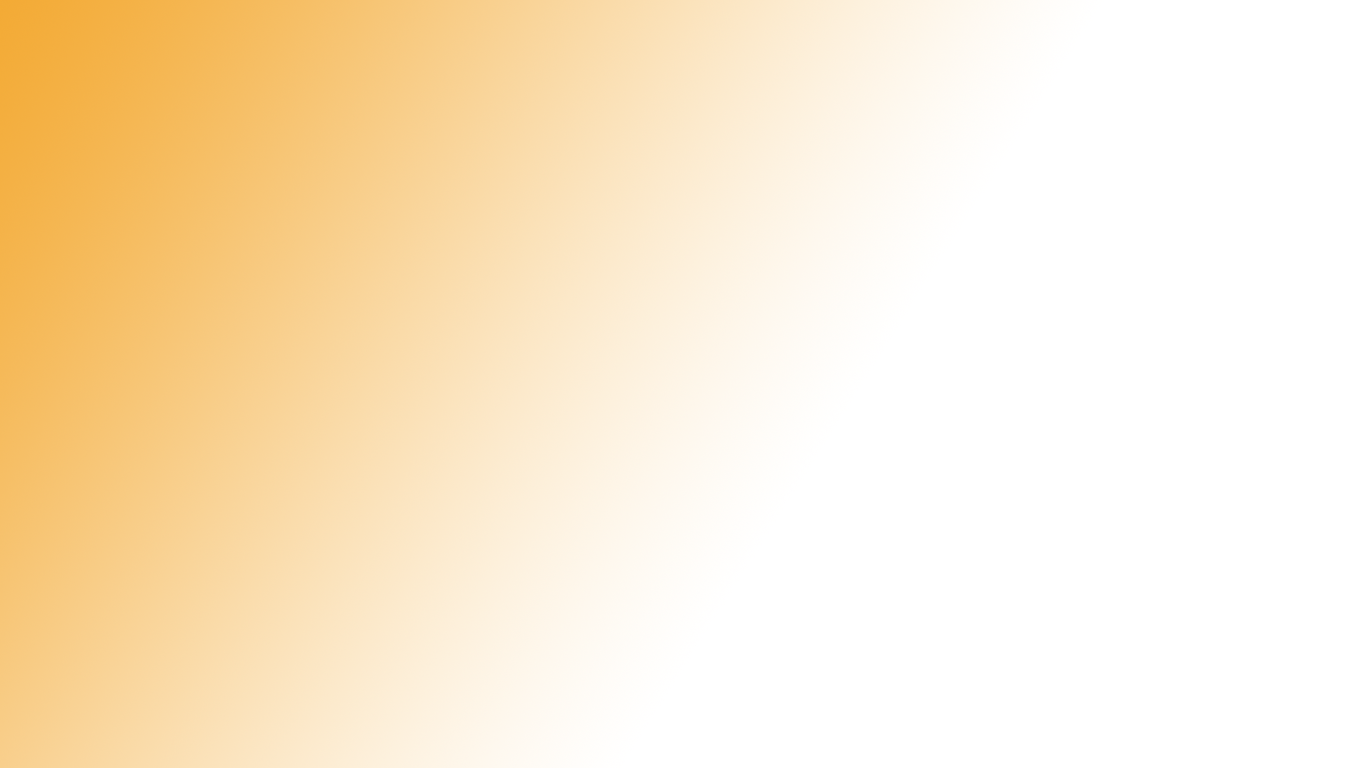
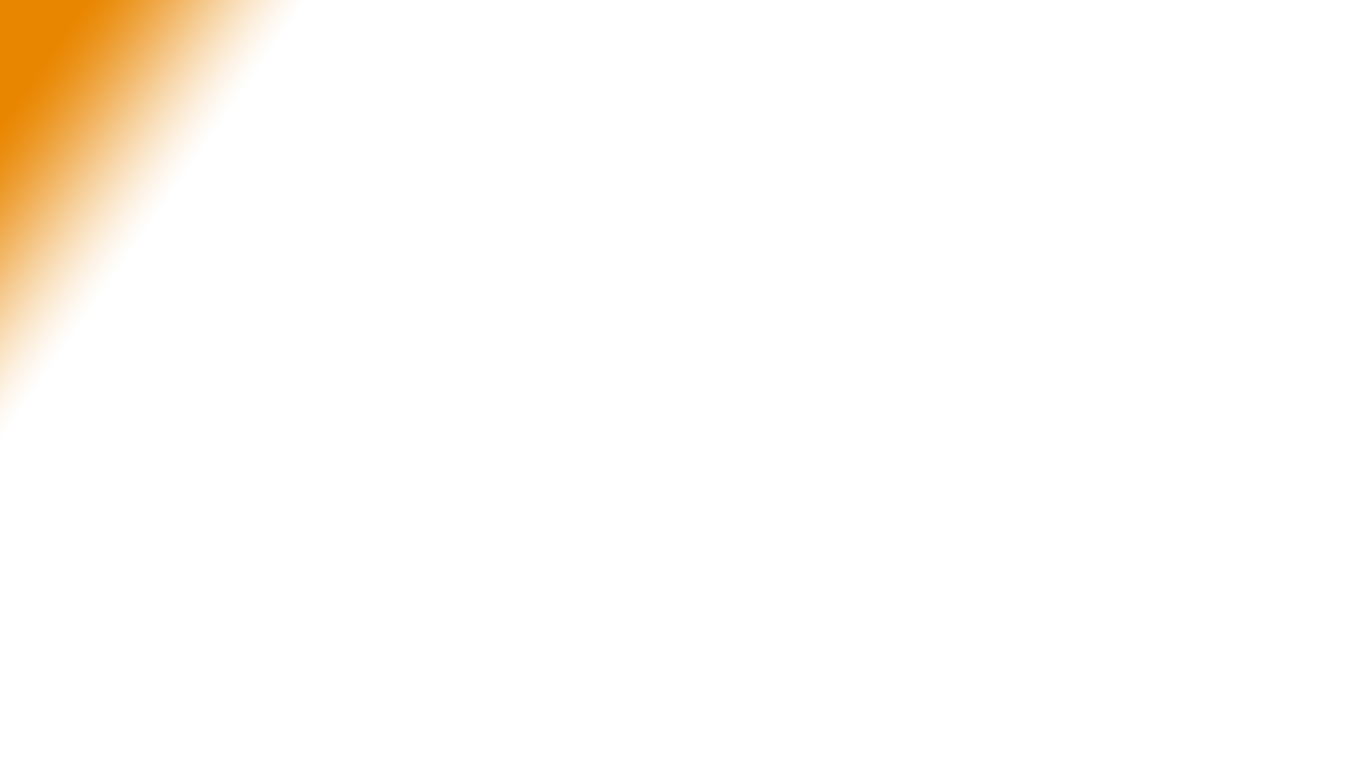
landing pages fini

diff --git a/packages/landing-page/index.html b/packages/landing-page/index.html
@@ -2,23 +2,28 @@
 <html>
 
 <head>
-	<script>
-		window.dataLayer = window.dataLayer || [];
-		function gtag() { dataLayer.push(arguments); }
-		gtag('js', new Date());
-
-		gtag('config', 'G-Y15TJDEV1R');
-	</script>
-	
 	<title>BonApp</title>
 	<meta charset="utf-8">
 	<meta name="description" content="BonApp, bon appetit, point.">
 	<link rel="stylesheet" type="text/css" href="style.css">
-	<!-- Global site tag (gtag.js) - Google Analytics -->
-	<script async src="https://www.googletagmanager.com/gtag/js?id=G-Y15TJDEV1R"></script>
+
+	<!-- Google Tag Manager -->
+	<script>(function (w, d, s, l, i) {
+			w[l] = w[l] || []; w[l].push({
+				'gtm.start':
+					new Date().getTime(), event: 'gtm.js'
+			}); var f = d.getElementsByTagName(s)[0],
+				j = d.createElement(s), dl = l != 'dataLayer' ? '&l=' + l : ''; j.async = true; j.src =
+					'https://www.googletagmanager.com/gtm.js?id=' + i + dl; f.parentNode.insertBefore(j, f);
+		})(window, document, 'script', 'dataLayer', 'GTM-WWRM56N');</script>
+	<!-- End Google Tag Manager -->
 </head>
 
 <body>
+	<!-- Google Tag Manager (noscript) -->
+	<noscript><iframe src="https://www.googletagmanager.com/ns.html?id=GTM-WWRM56N" height="0" width="0"
+			style="display:none;visibility:hidden"></iframe></noscript>
+	<!-- End Google Tag Manager (noscript) -->
 	<header>
 		<!-- Navbar -->
 		<div class="container clearfix">
@@ -54,7 +59,7 @@
 		</div>
 
 		<!-- Section 2 description de BonApp -->
-		<div class="container clearfix" style="margin-left: auto; margin-right: auto; margin-top: 3rem;">
+		<div class="container clearfix" style="margin-left: auto; margin-right: auto; margin-top: 1rem;">
 			<div id="section2" style="display: flex; flex-wrap: wrap;">
 				<div style="width: 500px; margin-left: auto; margin-right: auto;">
 					<img style="min-width: 250px; max-width: 500px; border-radius: 40px;"
@@ -64,15 +69,17 @@
 					<h1 style="">Service de commande en table.</h1>
 					<p>ipsum dolor sit amet consectetur adipisicing elit. Aperiam iusto nulla, autem dolorem perferendis
 						id excepturi earum placeat omnis</p>
-					<img src="images/app-img.png" style="max-height: 300px; margin-left:5rem; border-radius: 20px;" />
+					<img src="images/apple-iphone-5.png"
+						style="max-height: 350px; margin-left:8rem" />
 				</div>
 			</div>
 		</div>
 
 		<!-- Section pipline -->
-		<div class="container clearfix">
+		<div class="container clearfix" style="margin-top: 4rem;">
+			<h1>Fonctionnement simple</h1>
 			<section id="section3">
-				<h1>Fonctionnement simple</h1>
+
 				<div style="display: flex;">
 					<div class="who">
 						<div class="">
@@ -92,7 +99,9 @@
 						</div>
 						<h1>Payez</h1>
 					</div>
+					
 				</div>
+				<hr style="width: 70%; margin-top: -110px; position: absolute; z-index: -2; margin-left:15%; border: 3px solid orange; ">
 				<div class="progressbar">
 
 				</div>
@@ -101,7 +110,7 @@
 
 
 		<!-- Section 3 features de BonApp -->
-		<div class="container clearfix">
+		<div class="container clearfix" style="margin-top: 4rem;">
 			<section id="section4">
 				<h1>L'équipe de BonApp</h1>
 				<div style="display: flex; flex-wrap: wrap;">
@@ -110,14 +119,14 @@
 							<img src="images/Marwane.jpeg" style="border-radius: 100px; width: 180px;" />
 						</div>
 						<h1>Marwane Bouabdellah</h1>
-						<h2>Développeur chez</h2>
+						<h2>Développeur chez Ampli Mutuelle</h2>
 					</div>
 					<div class="who">
 						<div class="img-who">
 							<img src="images/Yassine.jpeg" style="border-radius: 100px; width: 180px;" />
 						</div>
-						<h1>Yassine Boussaidi</h1>
-						<h2>Développeur chez</h2>
+						<h1>Yassine Bousaidi</h1>
+						<h2>Développeur chez Société Générale</h2>
 					</div>
 					<div class="who">
 						<div class="img-who">
@@ -137,8 +146,8 @@
 						<div class="img-who">
 							<img src="images/Wassim.jpeg" style="border-radius: 100px; width: 180px;" />
 						</div>
-						<h1>Wassim Dahman</h1>
-						<h2>Développeur chez</h2>
+						<h1>Wassim Dahmane</h1>
+						<h2>Développeur chez Teksial</h2>
 					</div>
 				</div>
 			</section>
@@ -148,19 +157,18 @@
 		<div class="container clearfix" style="margin-top: 3rem;">
 			<section id="section5">
 				<h1>Nous contacter</h1>
-				<form action="/action_page.php">
-					<label for="fname">Nom & prénom</label>
-					<input type="text" id="fname" name="firstname" placeholder="Votre nom et prénom">
+				<form action="https://formsubmit.co/lilka94@hotmail.fr" method="POST">
 
 					<label for="sujet">Sujet</label>
-					<input type="text" id="sujet" name="sujet" placeholder="L'objet de votre message">
+					<input type="text" id="sujet" name="_subject" placeholder="L'objet de votre message">
 
 					<label for="emailAddress">Email</label>
-					<input id="emailAddress" type="email" name="email" placeholder="Votre email">
+					<input id="emailAddress" type="email" name="email" placeholder="Votre email" required>
 
+					<input type="hidden" name="_next" value="thank-you.html" />
 
 					<label for="subject">Message</label>
-					<textarea id="subject" name="subject" placeholder="Votre message" style="height:200px"></textarea>
+					<textarea id="subject" name="message" placeholder="Votre message" style="height:200px"></textarea>
 
 					<button class="cta-button" type="submit" value="Envoyer">Envoyer</button>
 				</form>
@@ -180,7 +188,7 @@
 			</nav>
 			<div class="vertically-centered align-right">
 				<a href="#" class="country-france">France</a>
-				<small>© 2022 BONAPP</small>
+				<small>© 2022 BONAP</small>
 			</div>
 		</div>
 	</footer>

diff --git a/packages/landing-page/thank-you.html b/packages/landing-page/thank-you.html
@@ -1,0 +1,70 @@
+<!DOCTYPE html>
+<html>
+
+<head>
+	<title>BonApp</title>
+	<meta charset="utf-8">
+	<meta name="description" content="BonApp, bon appetit, point.">
+	<link rel="stylesheet" type="text/css" href="style.css">
+
+	<!-- Google Tag Manager -->
+	<script>(function (w, d, s, l, i) {
+			w[l] = w[l] || []; w[l].push({
+				'gtm.start':
+					new Date().getTime(), event: 'gtm.js'
+			}); var f = d.getElementsByTagName(s)[0],
+				j = d.createElement(s), dl = l != 'dataLayer' ? '&l=' + l : ''; j.async = true; j.src =
+					'https://www.googletagmanager.com/gtm.js?id=' + i + dl; f.parentNode.insertBefore(j, f);
+		})(window, document, 'script', 'dataLayer', 'GTM-WWRM56N');</script>
+	<!-- End Google Tag Manager -->
+</head>
+
+<body>
+	<!-- Google Tag Manager (noscript) -->
+	<noscript><iframe src="https://www.googletagmanager.com/ns.html?id=GTM-WWRM56N" height="0" width="0"
+			style="display:none;visibility:hidden"></iframe></noscript>
+	<!-- End Google Tag Manager (noscript) -->
+	<header>
+		<!-- Navbar -->
+		<div class="container clearfix">
+			<a href="#" style="font-size: 52px; color: orange; font-weight: bolder; text-decoration: none;"
+				class="logo">BonApp</a>
+			<nav>
+				<ul>
+					<li><a href="#">Accueil</a></li>
+					<li><a href="#">Contact</a></li>
+					<li><a>|</a></li>
+					<li><a href="#">S'inscrire</a></li>
+					<li><a href="#">Se connecter</a></li>
+				</ul>
+			</nav>
+		</div>
+	</header>
+
+	<main>
+		Merci, votre email a bien été envoyé !
+	</main>
+
+	<!-- Footer-->
+	<footer>
+		<div class="container clearfix">
+			<nav>
+				<ul>
+					<li><a href="#">Légal</a></li>
+					<li><a href="#">Cookies</a></li>
+					<li><a href="#">A propos des pubs</a></li>
+				</ul>
+			</nav>
+			<div class="vertically-centered align-right">
+				<a href="#" class="country-france">France</a>
+				<small>© 2022 BONAP</small>
+			</div>
+		</div>
+	</footer>
+</body>
+
+<script>
+
+</script>
+
+</html>

diff --git a/packages/landing-page/style.css b/packages/landing-page/style.css
@@ -4,7 +4,7 @@
 
 html {
 	font-family: 'Overpass', 'Lato', 'Montserrat', sans-serif;
-	background: url('images/Fond-landing copie.png') no-repeat center center fixed;
+	background: url('images/Fond-landing.png') no-repeat center center fixed;
 	min-height: 100%;
 	min-width: 1024px;
 	width: 100%;
@@ -46,6 +46,12 @@ header {
 
 body {
 	margin: 0;
+}
+
+main {
+	max-width: 1180px;
+	margin-left: auto;
+	margin-right: auto;
 }
 
 nav a {
@@ -297,9 +303,10 @@ body>footer * {
 }
 
 #section5{
+	margin-right: auto;
+	margin-left: auto;
 	margin-top: 4rem;
-	margin-left: 16rem;
-	margin-right: 16rem;
+	max-width: 450px;
 }
 
 input[type=text],
